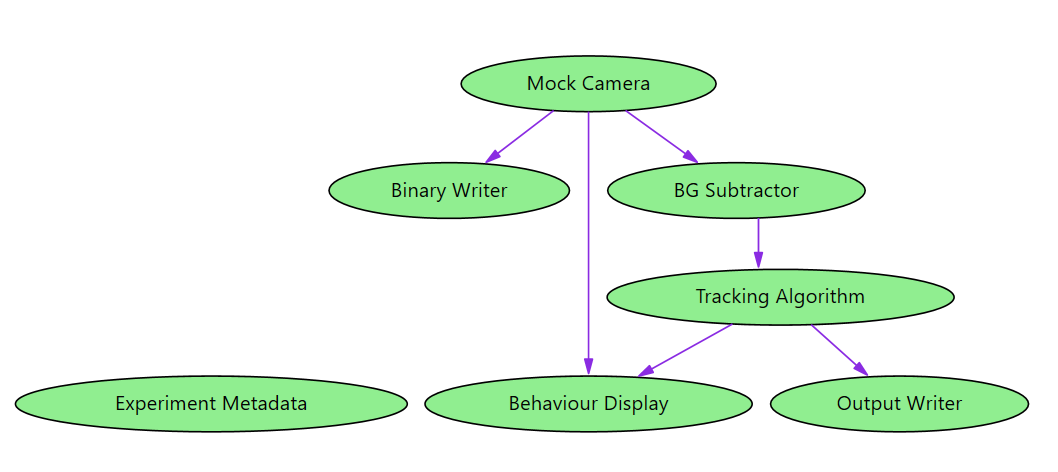
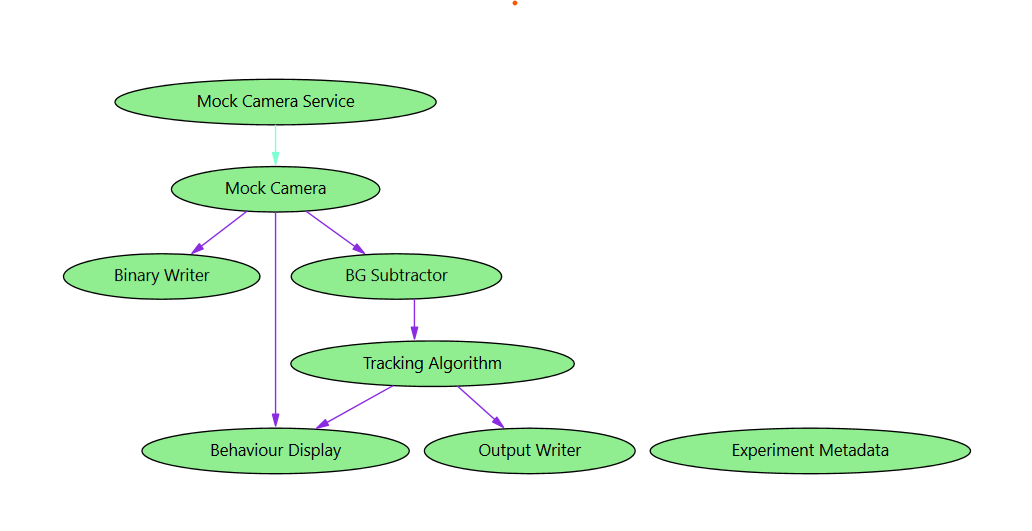
Changed tail tracking example to include a link dependency

diff --git a/samples/FictiveFishTracker/TailTracker.cs b/samples/FictiveFishTracker/TailTracker.cs
@@ -18,7 +18,8 @@ namespace FictiveFishTracker
         public Vessel<MPTailTracking> TrackingAlgorithm { get; }
         public Vessel<PositiveDiffWithMinBG> BGSubtractor { get; }
         public Vessel<SkiaSharpDisplay> BehaviourDisplay { get; }
-        public Vessel<AVIReader> MockCamera { get; }
+        public Vessel<AVIReader> MockCameraService { get; }
+        public Vessel<MoviePlayer> MockCamera { get; }
         public Vessel<TextMessageRecorder> OutputWriter { get; }
         public Vessel<SardineBinaryImageWriter> BinaryWriter { get; }
         public Vessel<ZebrafishExperimentMetadataController> ExperimentMetadata { get; }
@@ -28,10 +29,13 @@ namespace FictiveFishTracker
             ExperimentMetadata = Freighter.Freight(builder: Current.Get<ZebrafishExperimentMetadataController>,
                                                    initializer: (metadataService) => metadataService.Metadata.ExperimentFolderBase = @"C:\");
 
+            MockCameraService = Freighter.Freight(builder: () => new AVIReader());
+
             string filePath = @"output_converted_1_cropped.avi";
-            MockCamera = Freighter.Freight(() => new AVIReader(filePath));
-            MockCamera.SourceRate = 700;
-            MockCamera.AddSource(AVIReaderSource.SourceFrame);
+            MockCamera = Freighter.Freight(MockCameraService,
+                                           (cameraService) => cameraService.GetPlayer(filePath));
+            MockCamera.SourceRate = 350;
+            MockCamera.AddSource(MoviePlayerSource.SourceFrame);
 
             BGSubtractor = Freighter.Freight(() => new PositiveDiffWithMinBG());
             BGSubtractor.AddTransformer<IImageFrame, IImageFrame>(BackgroundSubtracterTransformer.Transform, [MockCamera]);
@@ -41,7 +45,7 @@ namespace FictiveFishTracker
             TrackingAlgorithm.AddTransformer<IImageFrame, MPTailTrackingResult>(MPTailTracking.Transform, [BGSubtractor]);
             TrackingAlgorithm.SetMetadataCollection(MetadataCollectionMethods.CollectTailTracker);
 
-            BehaviourDisplay = SkiaSharpDisplay.GetVessel([MockCamera, TrackingAlgorithm], 10);
+            BehaviourDisplay = SkiaSharpDisplay.GetVessel([MockCamera, TrackingAlgorithm], 30);
 
             OutputWriter = Freighter.Freight(() => new TextMessageRecorder());
             OutputWriter.AddSink<ITextWritable>(TextMessageRecorder.Sink);

diff --git a/src/Devices/Sardine.Test.AVIReader/AVIReader.cs b/src/Devices/Sardine.Test.AVIReader/AVIReader.cs
@@ -1,21 +1,17 @@
 using OpenCV.Net;
-using System.Reflection.PortableExecutable;
 using System.Runtime.InteropServices;
 
 namespace Sardine.Test.AVIReader
 {
     public class AVIReader
     {
-        public bool AddNoise { get; set; }
-        public int OutputFrameCount { get; internal set; } = 0;
+        public AVIReader() { }
 
-        public int Height { get; } = 0;
-        public int Width { get; } = 0;
-
-        public IReadOnlyList<byte[]> AllFrames { get; }
-
-        public AVIReader(string path)
+        public MoviePlayer GetPlayer(string path)
         {
+            int height = 0;
+            int width = 0;
+
             Capture stream = Capture.CreateFileCapture(path);
 
             List<byte[]> frames = new List<byte[]>();
@@ -31,8 +27,8 @@ namespace Sardine.Test.AVIReader
                 int rem = size_row_raw % 4;
                 int width_step = size_row_raw + rem;
 
-                if (Height == 0) Height = frame.Height;
-                if (Width == 0) Width = width_step;
+                if (height == 0) height = frame.Height;
+                if (width == 0) width = width_step;
 
                 var imageSize = new Size(frame.Width, frame.Height);
 
@@ -40,10 +36,10 @@ namespace Sardine.Test.AVIReader
 
                 CV.Split(frame, singleColorFrame, null, null, null);
 
-                byte[] imageData = new byte[(Width) * Height];
+                byte[] imageData = new byte[(width) * height];
 
                 Marshal.Copy(singleColorFrame.ImageData, imageData, 0, frame.Width * frame.Height);
-                
+
                 frame.Close();
                 singleColorFrame.Close();
 
@@ -51,8 +47,8 @@ namespace Sardine.Test.AVIReader
             }
 
             stream.Close();
-            AllFrames = frames;
 
+            return new MoviePlayer(frames, width, height);
         }
     }
 }

diff --git a/src/Devices/Sardine.Test.AVIReader/MoviePlayerSource.cs b/src/Devices/Sardine.Test.AVIReader/MoviePlayerSource.cs
@@ -1,0 +1,26 @@
+using OpenCV.Net;
+using Sardine.ImageProcessing;
+using System;
+using System.Collections.Generic;
+using System.Linq;
+using System.Runtime.InteropServices;
+using System.Text;
+using System.Threading.Tasks;
+using System.Xml.Linq;
+
+namespace Sardine.Test.AVIReader
+{
+    public static class MoviePlayerSource
+    {
+        public static IImageFrame? SourceFrame(MoviePlayer player, out bool hasMore)
+        {
+            hasMore = false;
+
+            (int frameID, byte[] frameData) = player.GetNextFrame();
+
+
+            return new ImageFrame([frameData], PixelFormat.Gray8, [DateTime.Now], 1, 1, 1, player.Width, player.Height, 1, true, frameID, "AVI Player", "Test Player");
+
+        }
+    }
+}

diff --git a/src/Devices/Sardine.Test.AVIReader/MoviePlayer.cs b/src/Devices/Sardine.Test.AVIReader/MoviePlayer.cs
@@ -1,0 +1,25 @@
+namespace Sardine.Test.AVIReader
+{
+    public class MoviePlayer
+    {
+        public int Height { get; } = 0;
+        public int Width { get; } = 0;
+
+        public int FrameCaret { get; private set; } = -1;
+        private IReadOnlyList<byte[]> AllFrames { get; }
+
+        internal MoviePlayer(IList<byte[]> frameData, int width, int height)
+        {
+            Width = width;
+            Height = height;
+
+            AllFrames = (IReadOnlyList<byte[]>)frameData;
+        }
+
+        public (int,byte[]) GetNextFrame()
+        {
+            FrameCaret++;
+            return (FrameCaret, AllFrames[FrameCaret % AllFrames.Count]);
+        }
+    }
+}
